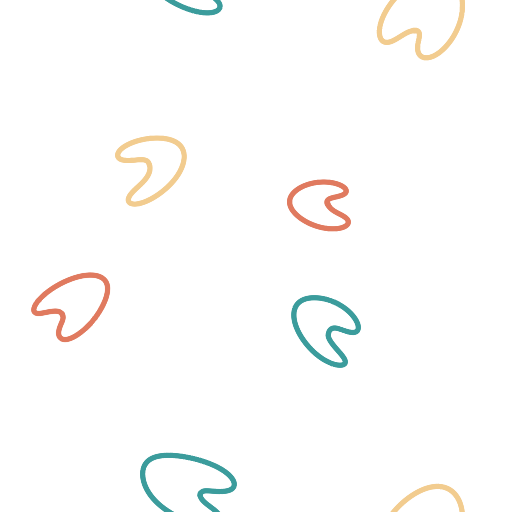
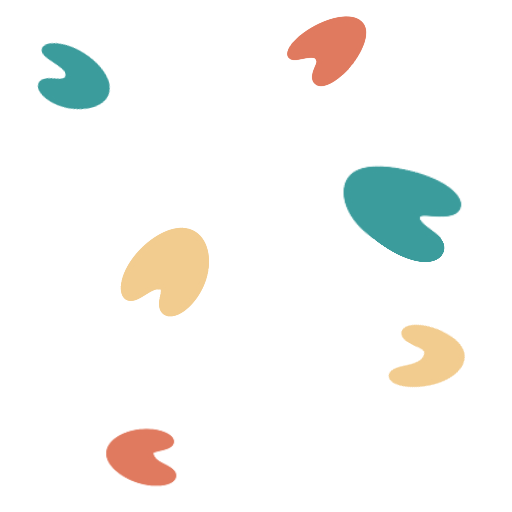
Add filled boomerang cards

diff --git a/index.html b/index.html
@@ -198,6 +198,40 @@
         <section id="category-patterns" class="category-section">
             <section class="packs-grid">
 
+                <!-- Boomerang Line -->
+                <article class="pack-card">
+                    <div class="pack-header-bar">
+                        <h3>Boomerang</h3>
+                    </div>
+                    <div class="pack-preview">
+                        <div class="pattern-preview" data-pattern="patterns/boomerang-line.png" data-scale="256"></div>
+                        <div class="background-toggle">
+                            <button class="toggle-btn active" data-bg="light">Light</button>
+                            <button class="toggle-btn" data-bg="dark">Dark</button>
+                        </div>
+                    </div>
+                    <div class="pack-info">
+                        <p>Classic MCM boomerangs in warm retro tones</p>
+                    </div>
+                </article>
+
+                <!-- Boomerang Line Ditsy -->
+                <article class="pack-card">
+                    <div class="pack-header-bar">
+                        <h3>Boomerang Ditsy</h3>
+                    </div>
+                    <div class="pack-preview">
+                        <div class="pattern-preview" data-pattern="patterns/boomerang-line.png" data-scale="128"></div>
+                        <div class="background-toggle">
+                            <button class="toggle-btn active" data-bg="light">Light</button>
+                            <button class="toggle-btn" data-bg="dark">Dark</button>
+                        </div>
+                    </div>
+                    <div class="pack-info">
+                        <p>Scaled for smaller spaces</p>
+                    </div>
+                </article>
+
                 <!-- Boomerang -->
                 <article class="pack-card">
                     <div class="pack-header-bar">
